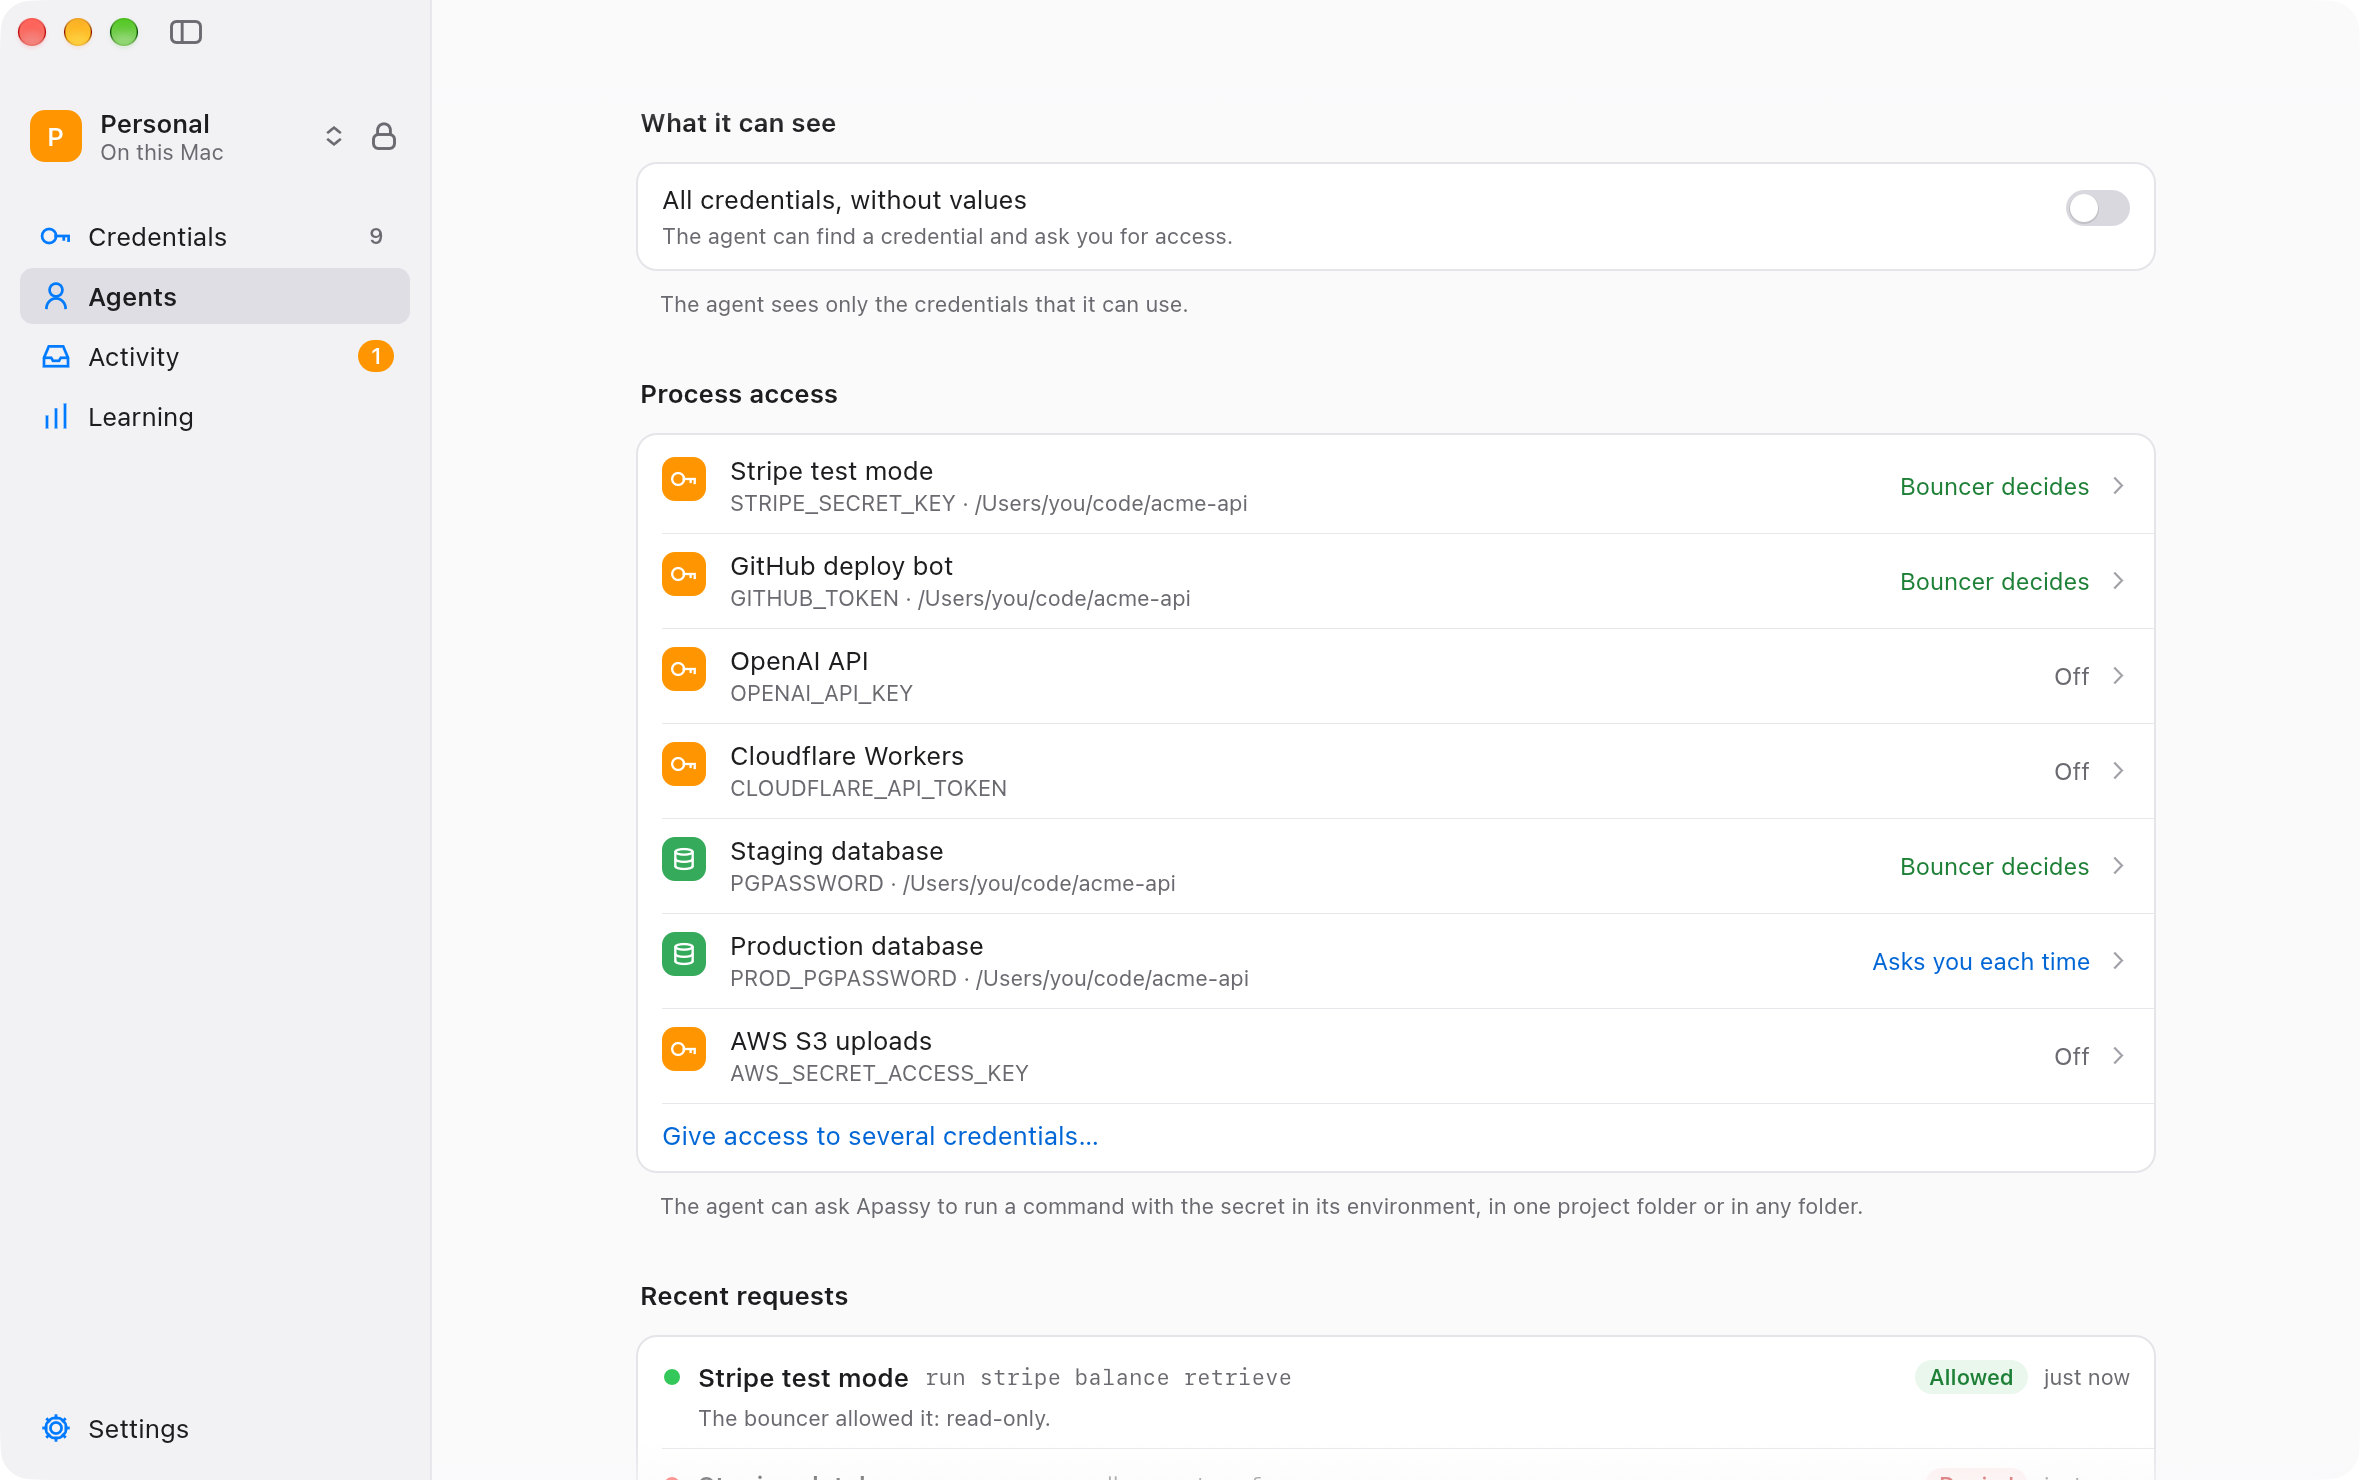
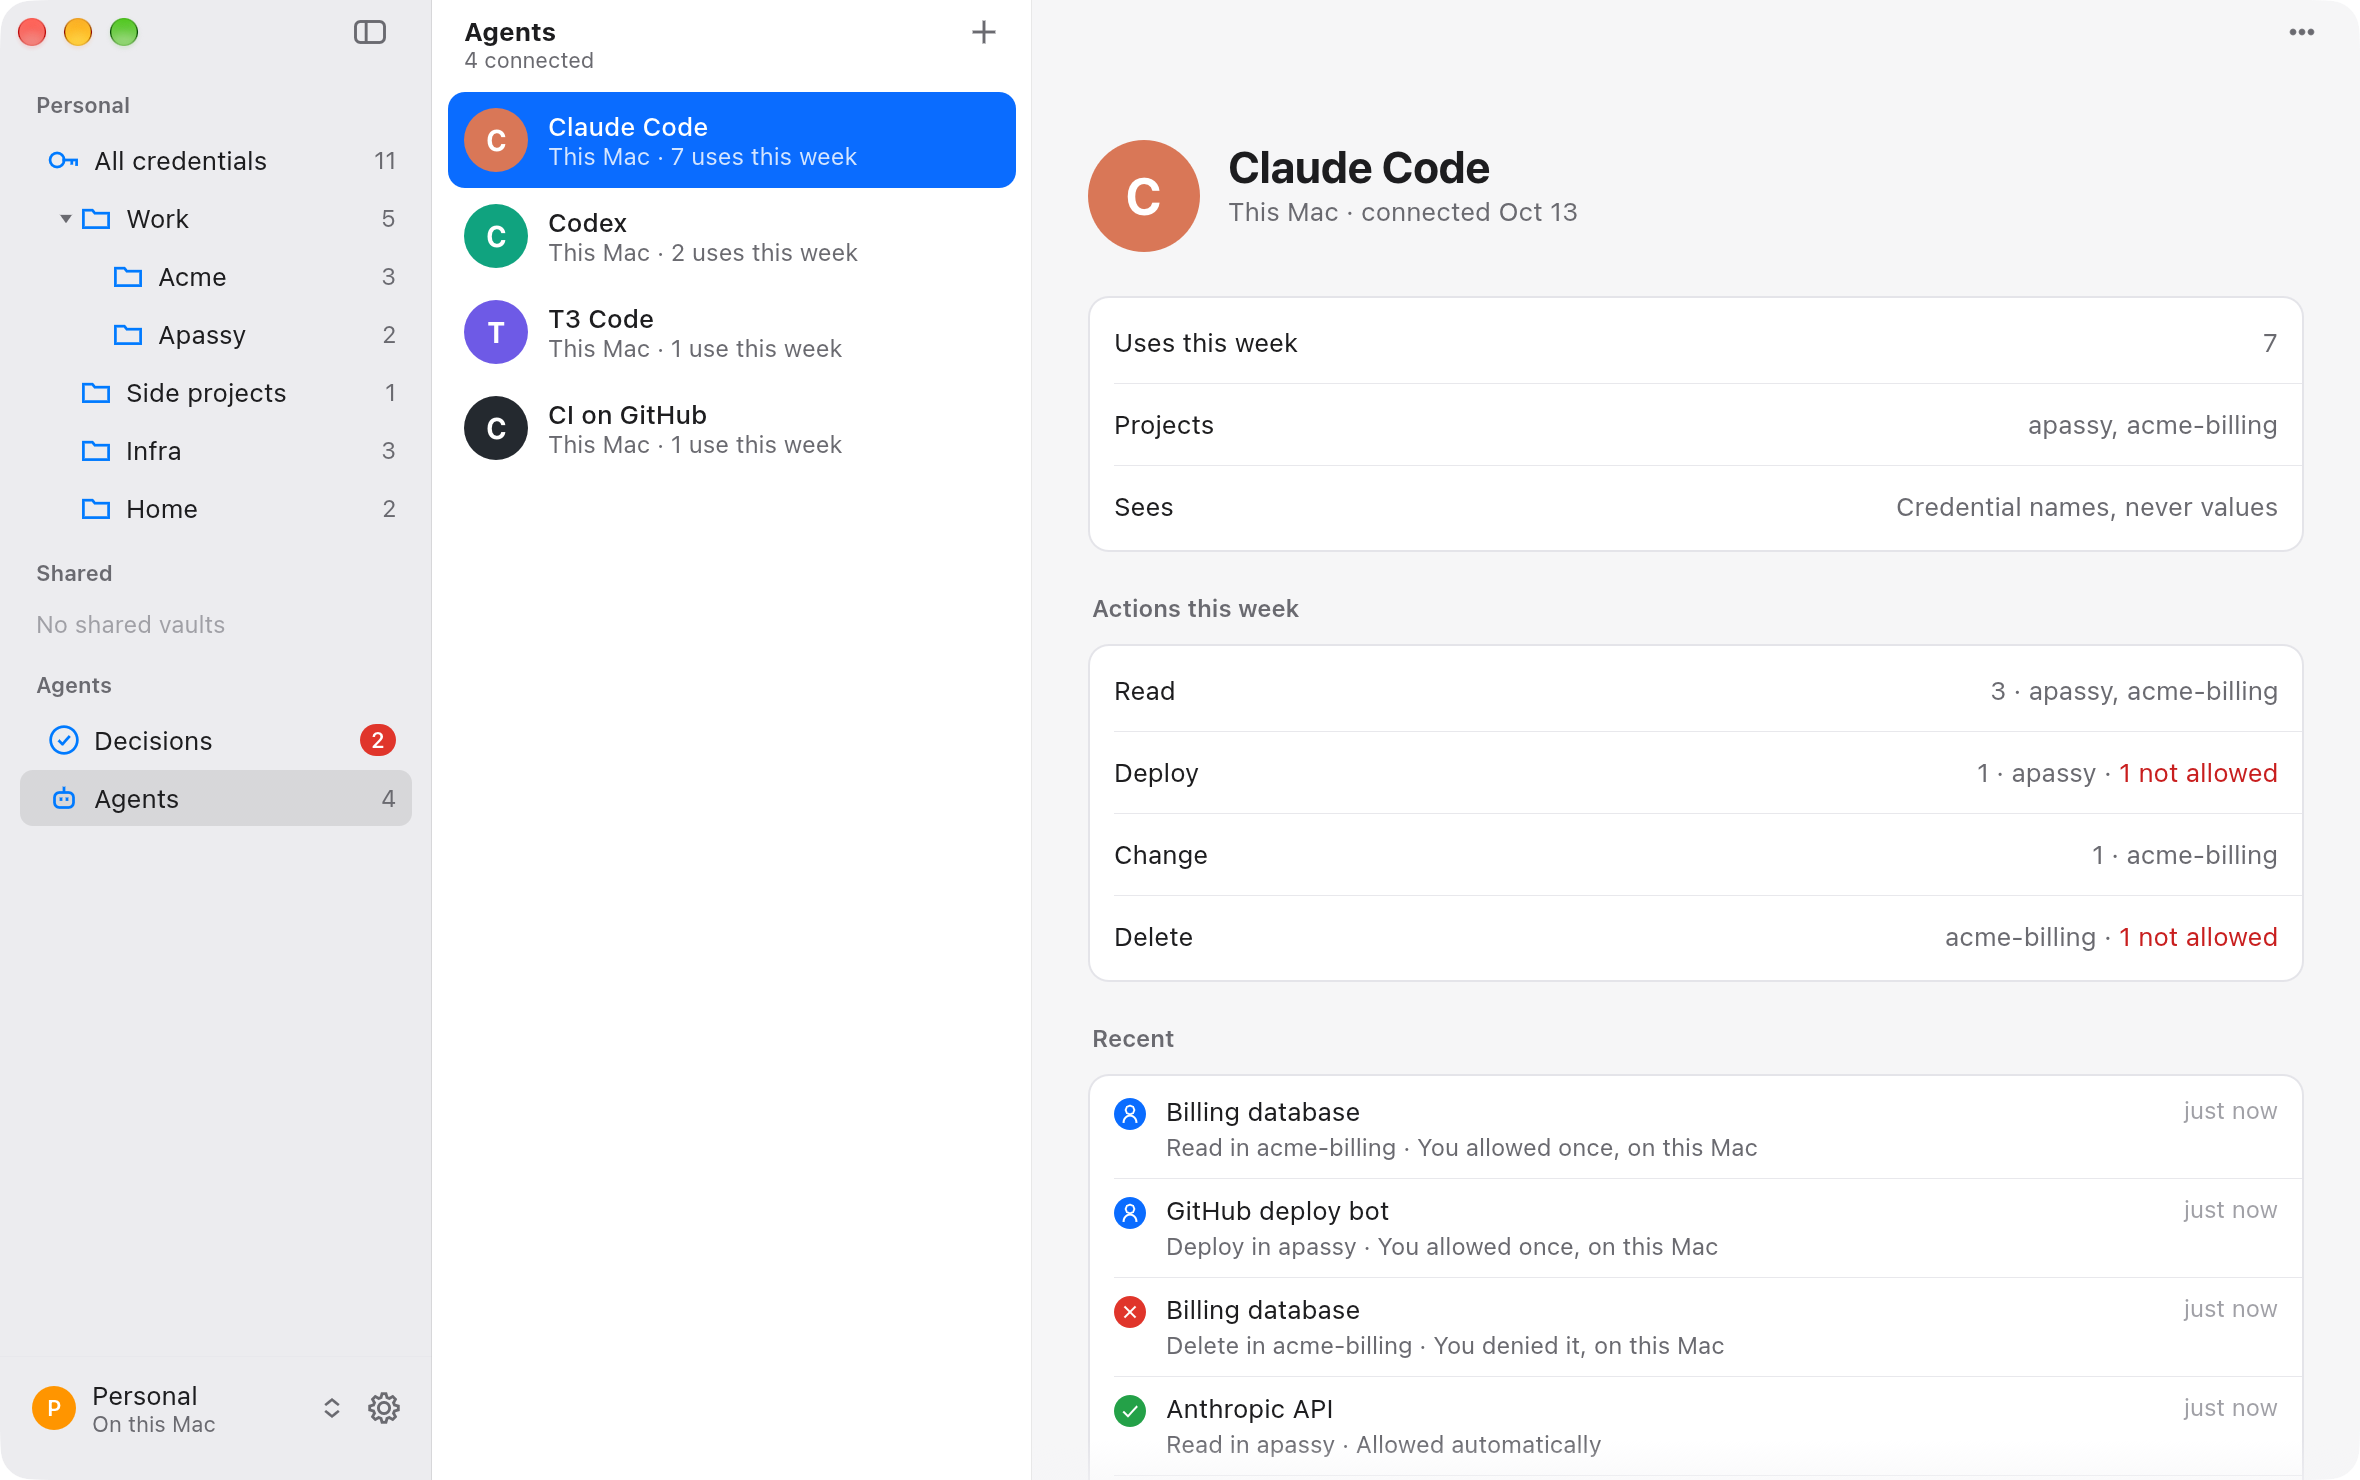
Screenshots of the 0.5.0 window for the site and the README
The tour copies Decisions, Agents, and Settings for the site and the README; the old Requests, Activity, and Learning images are gone. The gallery and the README show the new views, and the README describes the remembered answer of 0.5.0.

diff --git a/README.md b/README.md
@@ -25,7 +25,7 @@
 </p>
 
 <p align="center">
-  <img src="docs/images/app-vault.png" alt="The Apassy window: credentials grouped by kind, each with the environment variable that agents use." />
+  <img src="docs/images/app-vault.png" alt="The Apassy window: all credentials in folders, and a question of Claude Code that waits for your answer." />
 </p>
 
 ## Why
@@ -50,7 +50,7 @@ flowchart LR
 - **The agent never receives the value.** The broker socket never returns a secret. The secret exists only in the environment of the command ([ADR 0006](docs/adr/0006-process-secrets.md)).
 - **Placeholders.** A variable can hold a placeholder that looks like the key. Apassy's proxy puts the real value only into HTTPS requests to the hosts of that credential, and refuses the placeholder anywhere else ([ADR 0011](docs/adr/0011-run-proxy-placeholders.md)).
 - **The bouncer runs on your Mac.** 64 rule packs and the `apassy-base-v1` model check every command. A production credential waits for you, unless you allowed production for that project and kind of action ([bouncer](docs/operations/bouncer.md), [ADR 0025](docs/adr/0025-low-friction-access.md)).
-- **It learns.** "Approve and remember" turns a routine command into a pattern, and the line under Decisions shows how often you were asked this week ([learning](docs/operations/learning.md)).
+- **It learns.** "Allow ACTION in PROJECT" remembers your answer for the credential, the project, and the kind of action, and the line under Decisions shows how often you were asked this week ([learning](docs/operations/learning.md)).
 - **Agents run in a sandbox.** `apassy-sandbox` starts Claude Code and Codex in a Seatbelt profile that denies the vaults, the backups, the model, and the app ([isolation](docs/operations/isolation.md)).
 - **Several vaults, synced if you want it.** Keep personal and client credentials apart: each vault has its own passphrase, agents, and rules, and one is open at a time. A vault can sync between your Macs through iCloud Drive, Dropbox, Google Drive, OneDrive, or Syncthing, and changes merge one credential at a time ([several vaults](docs/operations/multiple-vaults.md), [sync](docs/operations/sync.md)).
 - **Fill logins in your browser.** The Apassy extension for Chromium browsers fills a login on its website after Touch ID, for each fill. Agents never get the password ([browser](docs/operations/browser.md)).
@@ -60,8 +60,12 @@ flowchart LR
 
 | |
 | :---: |
-| <img src="docs/images/app-requests.png" alt="Recent requests of an agent with the reason for each decision" /> |
-| **Requests.** Every request, with the command and the reason for the decision. These screenshots show the window before 0.5.0; new ones follow. |
+| <img src="docs/images/app-decisions.png" alt="Decisions: Codex asks for a Resend API key; a question and a suggestion wait in the list" /> |
+| **Decisions.** What waits for you: questions of the bouncer, requests of agents, and suggestions. |
+| <img src="docs/images/app-agent.png" alt="Claude Code with its uses this week by kind of action, and its recent uses" /> |
+| **Agents.** Each agent, with its projects and the actions it took this week. |
+| <img src="docs/images/app-settings.png" alt="Settings on Vault: sync, backup, and import from 1Password" /> |
+| **Settings.** A view of the window: vault, security, devices, bouncer, tools, and updates. |
 
 The screenshots show synthetic data. `scripts/screenshots.sh` takes them from the real app.
 
